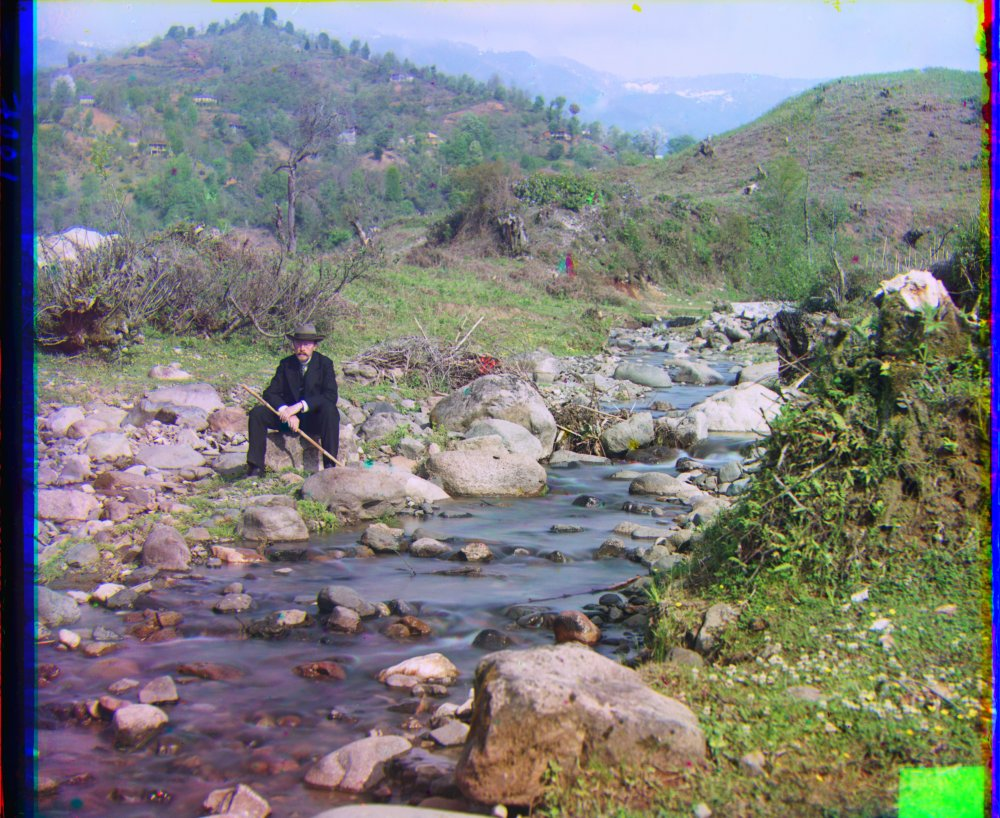
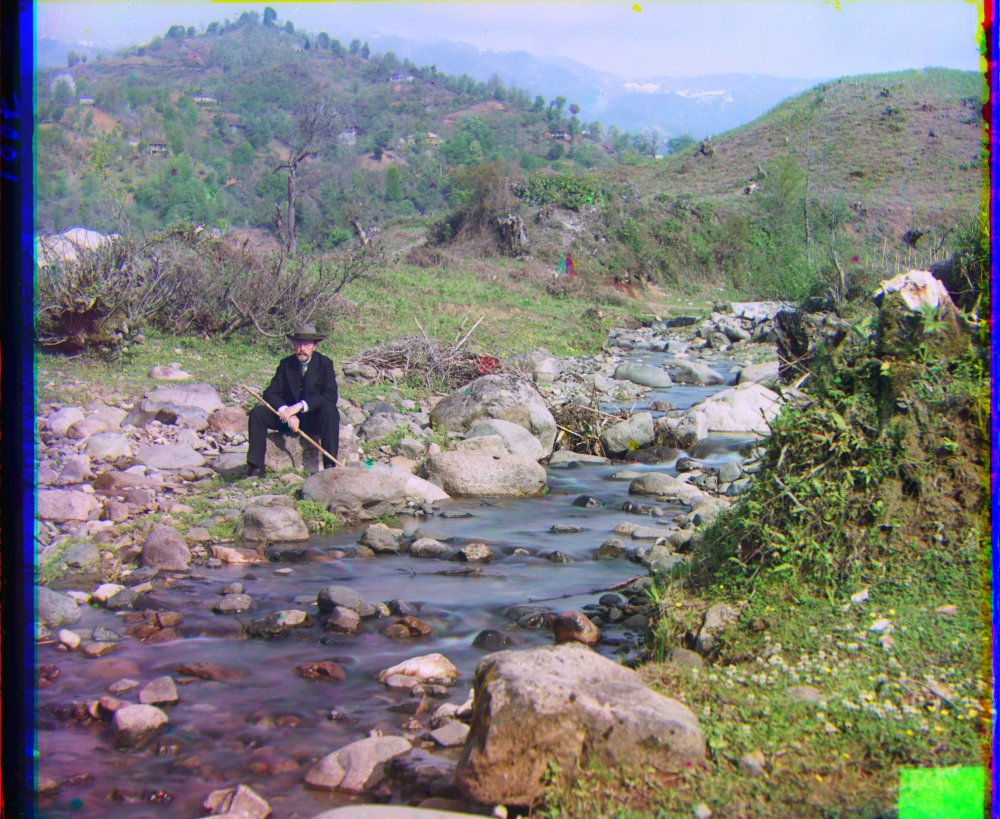
Complete project 1;

diff --git a/cs280/project1.html b/cs280/project1.html
@@ -246,7 +246,7 @@ layout: home
 
   <h2 class="h4 mt-5 mb-3">When It Didn't Work</h2>
   <p>
-    Three images came out misaligned with the plain, raw-intensity version of the algorithm: Emir from the given dataset, and two of the three I picked myself, the sunflower field and the sphinx. In every case it was specifically the red channel that went wrong, landing on some huge, clearly incorrect shift rather than something close to the truth. Emir's red channel jumped -780 pixels sideways, the sunflower field's jumped to a y-shift of 234 with almost no meaningful x-shift, and the sphinx came out visibly doubled. None of these are plausible camera or subject motion between two exposures taken a few seconds apart.
+    Three images came out misaligned with the plain, raw-intensity version of the algorithm: Emir from the given dataset, and two of the three I picked myself, the sunflower field and the sphinx. In every case it was specifically the red channel that went wrong, landing on some huge, clearly incorrect shift rather than something close to the truth. Emir's red channel jumped -780 pixels sideways, the sunflower field's jumped 363 pixels sideways with almost no meaningful y-shift, and the sphinx's jumped 66 pixels sideways with no y-shift at all. None of these are plausible camera or subject motion between two exposures taken a few seconds apart.
   </p>
 
   <div class="row g-3">
@@ -259,7 +259,7 @@ layout: home
     <div class="col-6 col-md-4">
       <figure class="figure w-100">
         <img src="{{ site.baseurl }}/img/project1/out_test2_multiscale.jpg" class="figure-img img-fluid rounded" alt="Sunflower field photo, badly misaligned red channel">
-        <figcaption class="figure-caption text-center">Sunflower Field: R shifted (-8, 234)</figcaption>
+        <figcaption class="figure-caption text-center">Sunflower Field: R shifted (363, 0)</figcaption>
       </figure>
     </div>
     <div class="col-6 col-md-4">
@@ -313,13 +313,13 @@ layout: home
     <div class="col-6 col-md-4">
       <figure class="figure w-100">
         <img src="{{ site.baseurl }}/img/project1/out_test2_multiscale.jpg" class="figure-img img-fluid rounded" alt="Sunflower field photo before fix, badly misaligned">
-        <figcaption class="figure-caption text-center">Sunflower Field before<br>raw intensity, R: (-8, 234)</figcaption>
+        <figcaption class="figure-caption text-center">Sunflower Field before<br>raw intensity, R: (363, 0)</figcaption>
       </figure>
     </div>
     <div class="col-6 col-md-4">
       <figure class="figure w-100">
         <img src="{{ site.baseurl }}/img/project1/out_test2_bw.jpg" class="figure-img img-fluid rounded" alt="Sunflower field photo after fix, correctly aligned">
-        <figcaption class="figure-caption text-center">Sunflower Field after<br>gradient magnitude, R: (-8, 234)&rarr;fixed</figcaption>
+        <figcaption class="figure-caption text-center">Sunflower Field after<br>gradient magnitude, R: (-8, 234)</figcaption>
       </figure>
     </div>
   </div>
@@ -327,7 +327,7 @@ layout: home
     <div class="col-6 col-md-4">
       <figure class="figure w-100">
         <img src="{{ site.baseurl }}/img/project1/out_test3_multiscale.jpg" class="figure-img img-fluid rounded" alt="Sphinx figurine photo before fix, badly misaligned">
-        <figcaption class="figure-caption text-center">Sphinx before<br>raw intensity, misaligned</figcaption>
+        <figcaption class="figure-caption text-center">Sphinx before<br>raw intensity, R: (66, 0)</figcaption>
       </figure>
     </div>
     <div class="col-6 col-md-4">
@@ -384,4 +384,108 @@ layout: home
   <p class="mt-3">
     Comparing the two: the colored border from the plate edge and the wrap-around is gone (auto crop), and the greens and blues look noticeably more natural and separated from each other instead of the slightly flat, blue-tinted look the raw aligned version has (white balance and decorrelation stretch doing most of that work, with contrast stretching giving the whole image a bit more punch on top).
   </p>
+
+  <h3 class="h5 mt-4">Putting It All Together: Full Pipeline Results</h3>
+  <p>
+    Once the gradient-magnitude fix was in place, I ran the full pipeline (gradient-based pyramid alignment, then auto crop, white balance, decorrelation stretch, and contrast) on every image, including the ones that never had a problem to begin with. The offsets below are almost identical to the raw-intensity numbers back in Part 2, usually within a pixel, since gradient features and raw intensity mostly agree once there isn't a large saturated color region to confuse things. Emir, Sunflower Field, and Sphinx are the exception, where the offset is completely different from Part 2 because that's exactly where the fix mattered.
+  </p>
+
+  <div class="row g-3">
+    <div class="col-6 col-md-4">
+      <figure class="figure w-100">
+        <img src="{{ site.baseurl }}/img/project1/out_cathedral_bw.jpg" class="figure-img img-fluid rounded" alt="Cathedral photo, full pipeline">
+        <figcaption class="figure-caption text-center">Cathedral<br>G: (2, 5)  R: (3, 12)</figcaption>
+      </figure>
+    </div>
+    <div class="col-6 col-md-4">
+      <figure class="figure w-100">
+        <img src="{{ site.baseurl }}/img/project1/out_monastery_bw.jpg" class="figure-img img-fluid rounded" alt="Monastery photo, full pipeline">
+        <figcaption class="figure-caption text-center">Monastery<br>G: (2, -3)  R: (2, 3)</figcaption>
+      </figure>
+    </div>
+    <div class="col-6 col-md-4">
+      <figure class="figure w-100">
+        <img src="{{ site.baseurl }}/img/project1/out_tobolsk_bw.jpg" class="figure-img img-fluid rounded" alt="Tobolsk photo, full pipeline">
+        <figcaption class="figure-caption text-center">Tobolsk<br>G: (2, 3)  R: (3, 6)</figcaption>
+      </figure>
+    </div>
+    <div class="col-6 col-md-4">
+      <figure class="figure w-100">
+        <img src="{{ site.baseurl }}/img/project1/out_emir_bw.jpg" class="figure-img img-fluid rounded" alt="Emir photo, full pipeline">
+        <figcaption class="figure-caption text-center">Emir<br>G: (24, 49)  R: (40, 107)</figcaption>
+      </figure>
+    </div>
+    <div class="col-6 col-md-4">
+      <figure class="figure w-100">
+        <img src="{{ site.baseurl }}/img/project1/out_harvesters_bw.jpg" class="figure-img img-fluid rounded" alt="Harvesters photo, full pipeline">
+        <figcaption class="figure-caption text-center">Harvesters<br>G: (17, 60)  R: (14, 124)</figcaption>
+      </figure>
+    </div>
+    <div class="col-6 col-md-4">
+      <figure class="figure w-100">
+        <img src="{{ site.baseurl }}/img/project1/out_icon_bw.jpg" class="figure-img img-fluid rounded" alt="Icon photo, full pipeline">
+        <figcaption class="figure-caption text-center">Icon<br>G: (17, 42)  R: (23, 90)</figcaption>
+      </figure>
+    </div>
+    <div class="col-6 col-md-4">
+      <figure class="figure w-100">
+        <img src="{{ site.baseurl }}/img/project1/out_ilemselga_bw.jpg" class="figure-img img-fluid rounded" alt="Ilemselga photo, full pipeline">
+        <figcaption class="figure-caption text-center">Ilemselga<br>G: (7, 40)  R: (11, 131)</figcaption>
+      </figure>
+    </div>
+    <div class="col-6 col-md-4">
+      <figure class="figure w-100">
+        <img src="{{ site.baseurl }}/img/project1/out_melons_bw.jpg" class="figure-img img-fluid rounded" alt="Melons photo, full pipeline">
+        <figcaption class="figure-caption text-center">Melons<br>G: (10, 80)  R: (13, 177)</figcaption>
+      </figure>
+    </div>
+    <div class="col-6 col-md-4">
+      <figure class="figure w-100">
+        <img src="{{ site.baseurl }}/img/project1/out_religous_painting_bw.jpg" class="figure-img img-fluid rounded" alt="Religious painting photo, full pipeline">
+        <figcaption class="figure-caption text-center">Religious Painting<br>G: (6, 30)  R: (6, 70)</figcaption>
+      </figure>
+    </div>
+    <div class="col-6 col-md-4">
+      <figure class="figure w-100">
+        <img src="{{ site.baseurl }}/img/project1/out_self_portrait_bw.jpg" class="figure-img img-fluid rounded" alt="Self portrait photo, full pipeline">
+        <figcaption class="figure-caption text-center">Self Portrait<br>G: (29, 78)  R: (37, 175)</figcaption>
+      </figure>
+    </div>
+    <div class="col-6 col-md-4">
+      <figure class="figure w-100">
+        <img src="{{ site.baseurl }}/img/project1/out_siren_bw.jpg" class="figure-img img-fluid rounded" alt="Siren photo, full pipeline">
+        <figcaption class="figure-caption text-center">Siren<br>G: (-6, 49)  R: (-24, 96)</figcaption>
+      </figure>
+    </div>
+    <div class="col-6 col-md-4">
+      <figure class="figure w-100">
+        <img src="{{ site.baseurl }}/img/project1/out_three_generations_bw.jpg" class="figure-img img-fluid rounded" alt="Three generations photo, full pipeline">
+        <figcaption class="figure-caption text-center">Three Generations<br>G: (12, 54)  R: (9, 111)</figcaption>
+      </figure>
+    </div>
+    <div class="col-6 col-md-4">
+      <figure class="figure w-100">
+        <img src="{{ site.baseurl }}/img/project1/out_wharf_bw.jpg" class="figure-img img-fluid rounded" alt="Wharf photo, full pipeline">
+        <figcaption class="figure-caption text-center">Wharf<br>G: (-7, 15)  R: (-16, 83)</figcaption>
+      </figure>
+    </div>
+    <div class="col-6 col-md-4">
+      <figure class="figure w-100">
+        <img src="{{ site.baseurl }}/img/project1/out_test1_bw.jpg" class="figure-img img-fluid rounded" alt="Riverside town photo, full pipeline">
+        <figcaption class="figure-caption text-center">Riverside Town<br>G: (16, 50)  R: (10, 94)</figcaption>
+      </figure>
+    </div>
+    <div class="col-6 col-md-4">
+      <figure class="figure w-100">
+        <img src="{{ site.baseurl }}/img/project1/out_test2_bw.jpg" class="figure-img img-fluid rounded" alt="Sunflower field photo, full pipeline">
+        <figcaption class="figure-caption text-center">Sunflower Field<br>G: (-5, 21)  R: (-8, 234)</figcaption>
+      </figure>
+    </div>
+    <div class="col-6 col-md-4">
+      <figure class="figure w-100">
+        <img src="{{ site.baseurl }}/img/project1/out_test3_bw.jpg" class="figure-img img-fluid rounded" alt="Sphinx figurine photo, full pipeline">
+        <figcaption class="figure-caption text-center">Sphinx Figurine<br>G: (27, 21)  R: (53, 110)</figcaption>
+      </figure>
+    </div>
+  </div>
 </div>
